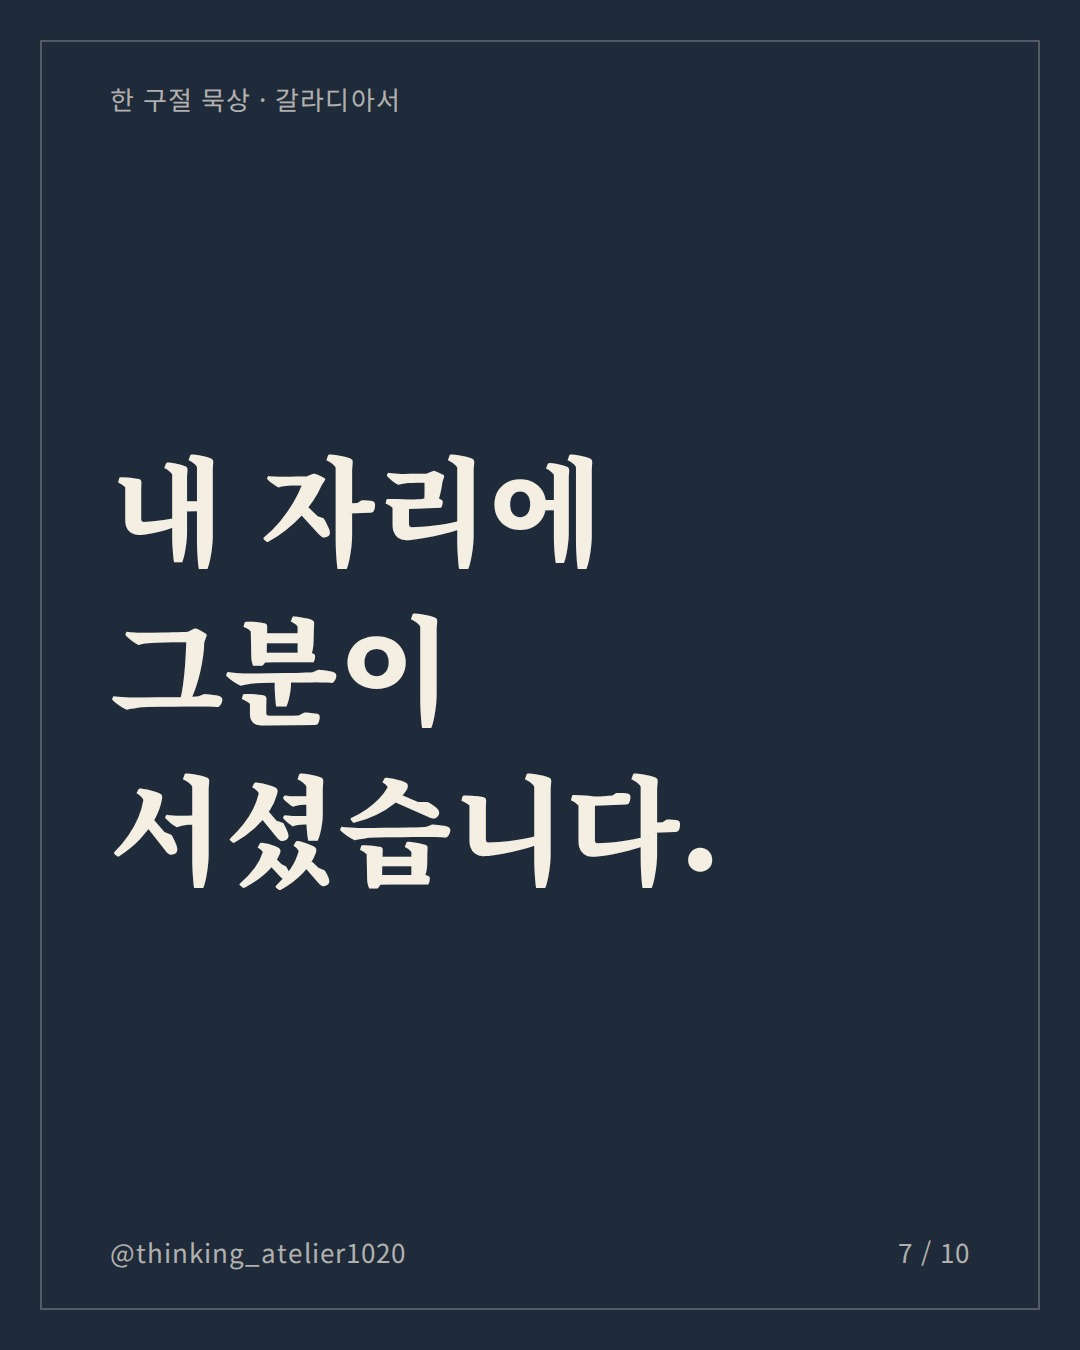
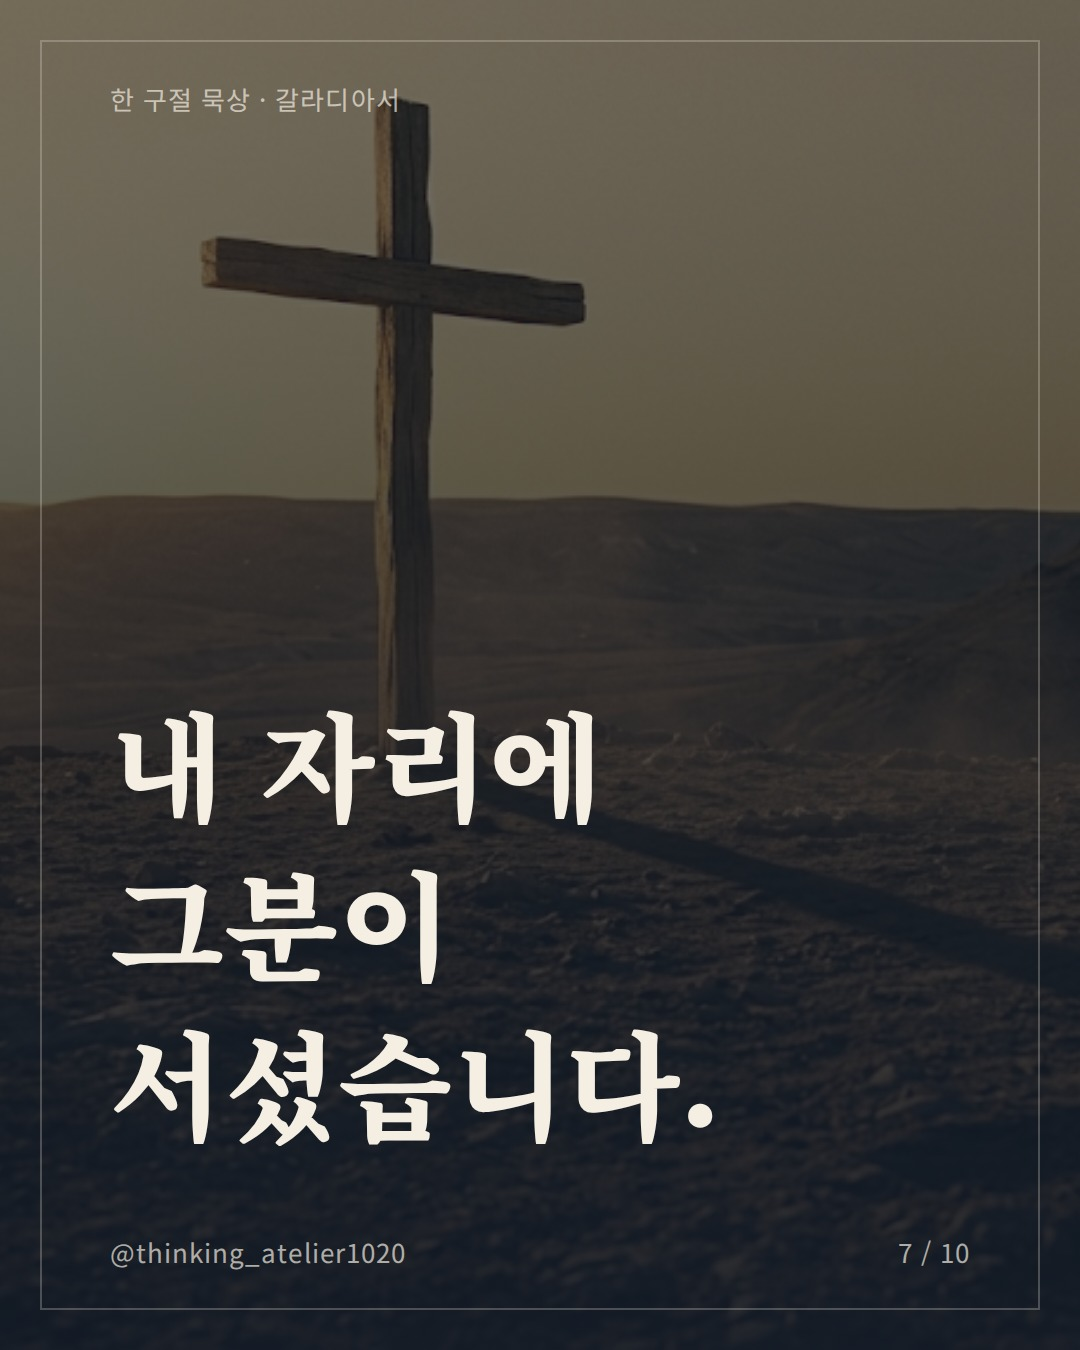
Add cross photo background to Galatians episode 4 key card
Claude-Session: https://claude.ai/code/session_01Md6U1FBrFwPi1aWGn1CBFq

diff --git a/series/galatians.md b/series/galatians.md
@@ -18,6 +18,8 @@
 - 01–03편: `carousel/images/paul-scribe.webp` (앉아서 구술하는 바울), `bgPos: 30% center`
 - 04편부터: `carousel/images/paul-teaching.png` (서서 가르치는 바울), `bgPos: 38% center`
 
+- 7번째 장(핵심 한 줄, key): 04편부터 `carousel/images/cross-sunset.png` (노을 속 십자가), `bgPos: 22% center`
+
 편마다 다른 그림을 받으면 그 편만 바꾼다.
 
 ## 카드 구성 (10장: 인스타그램 API 캐러셀 한도)
